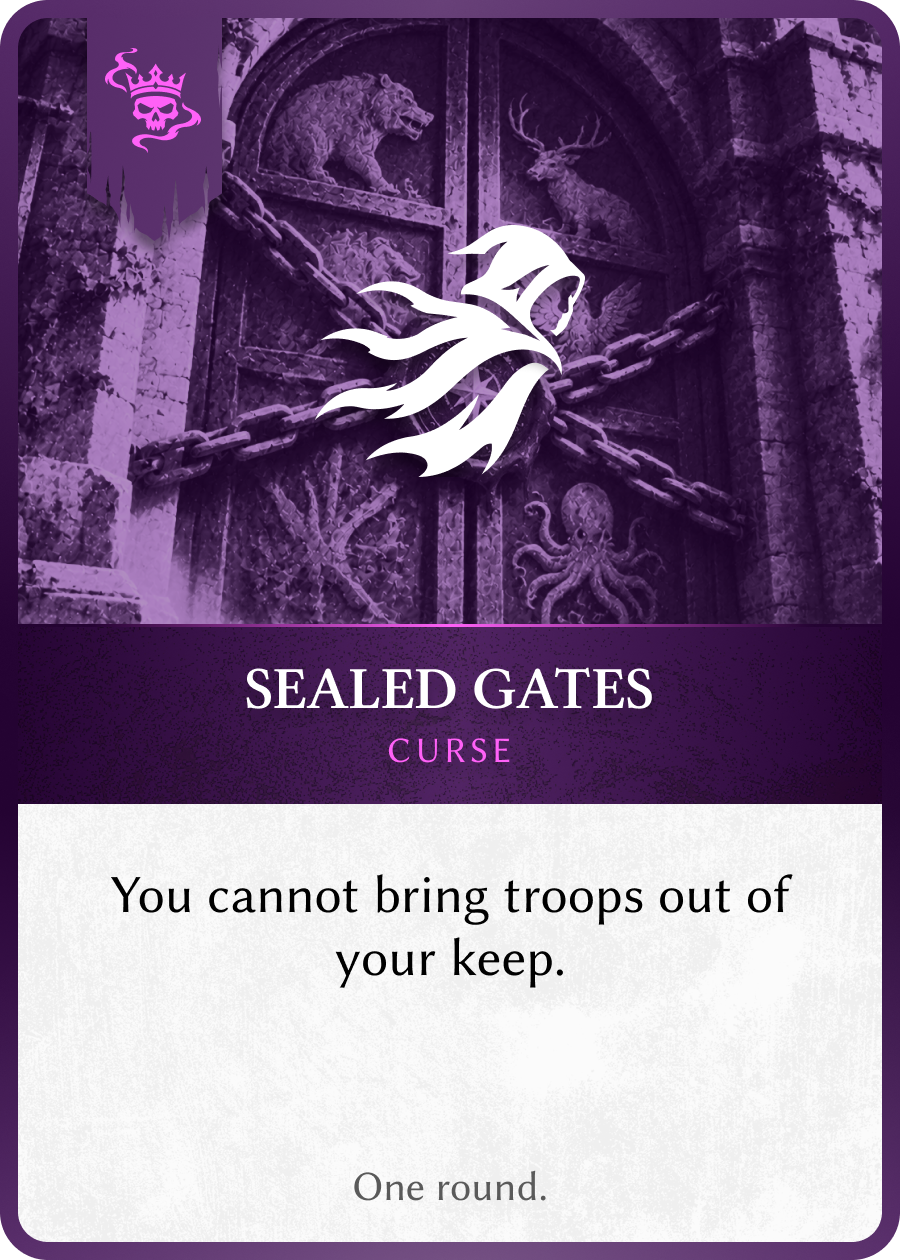
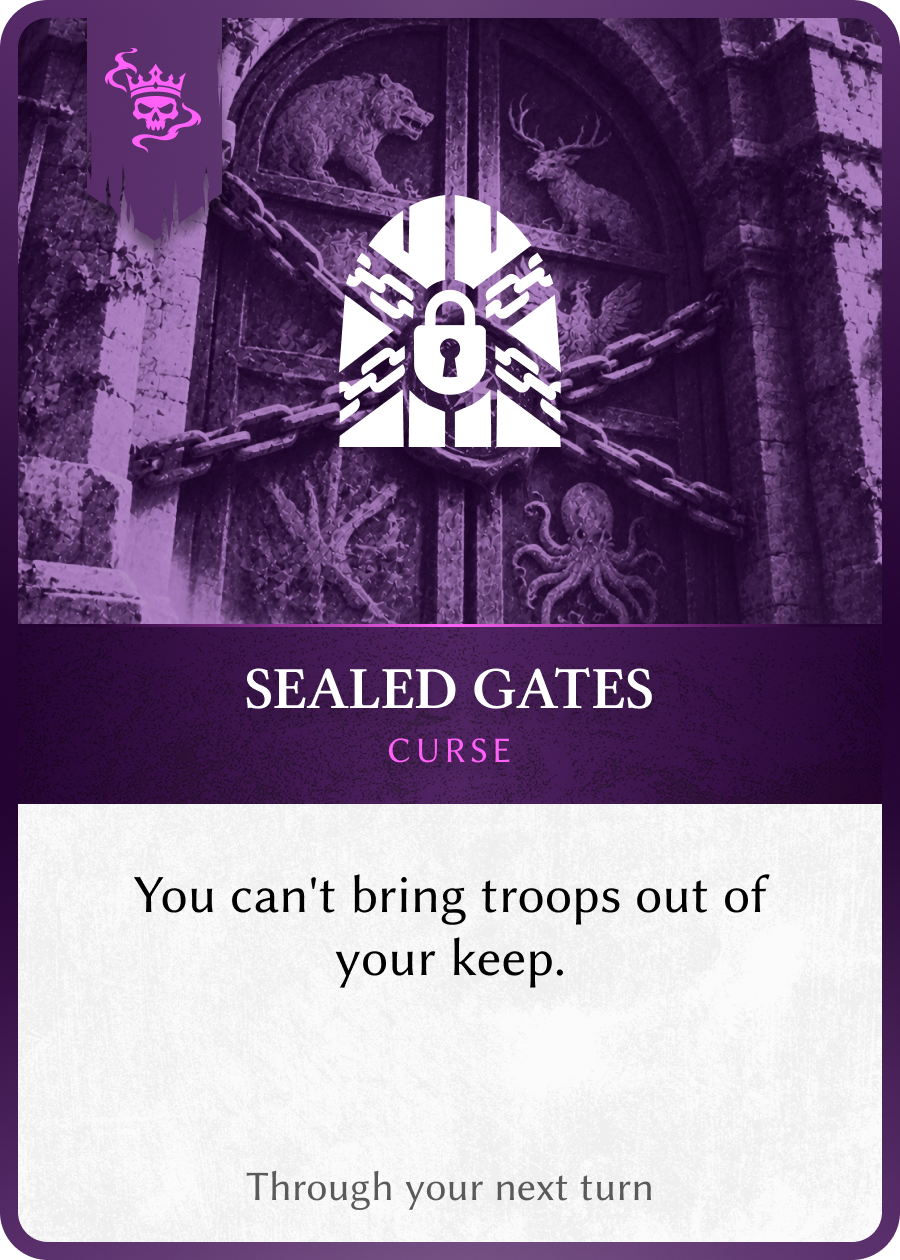
Ship re-exported Fate Card art with updated in-card text, and cache-bust PNG loads so players receive the new faces after deploy.

Changed region(s): [[0.3422, 0.1548, 0.6533, 0.4024], [0.1244, 0.681, 0.8711, 0.7429], [0.28, 0.9286, 0.7156, 0.9595]]

diff --git a/The Vaults of Corhaven.html b/The Vaults of Corhaven.html
@@ -856,13 +856,13 @@ body.at-lesson #hintDock{z-index:21}
 <script src="./lib/rules.js?v=copy1"></script>
 <script src="./lib/siege-fx.js?v=siege18"></script>
 <script src="./lib/smoke-embers.js?v=5"></script>
-<script src="./lib/fate-view.js?v=fate6"></script>
+<script src="./lib/fate-view.js?v=fate7"></script>
 <script src="./lib/game-modes.js?v=copy1"></script>
 <script src="./lib/player-profile.js?v=ia1"></script>
 <script>
 (function(){
 'use strict';
-const GAME_VERSION='1.10.10';
+const GAME_VERSION='1.10.11';
 const TYPE_SANS='"Libertinus Sans",system-ui,sans-serif';
 const TYPE_SERIF='"Libertinus Serif",Georgia,serif';
 const TYPE_DISPLAY='"Libertinus Serif Display","Libertinus Serif",Georgia,serif';

diff --git a/lib/fate-view.js b/lib/fate-view.js
@@ -5,6 +5,7 @@
 
   const R = () => root.CorhavenRules;
   const FATE_ART_DIR = 'assets/Board Game/';
+  const FATE_ART_VER = '20251126';
   const FATE_ART = {
     favor: "The King's Favor.png",
     phantom: 'Phantom March.png',
@@ -58,7 +59,7 @@
     function fateArtUrl(id) {
       const file = FATE_ART[id];
       if (!file) return null;
-      return encodeURI(FATE_ART_DIR + file);
+      return encodeURI(FATE_ART_DIR + file) + '?v=' + FATE_ART_VER;
     }
     function drawGlow() {
       const c = document.createElement('canvas'); c.width = 420; c.height = 580; const g = c.getContext('2d');
